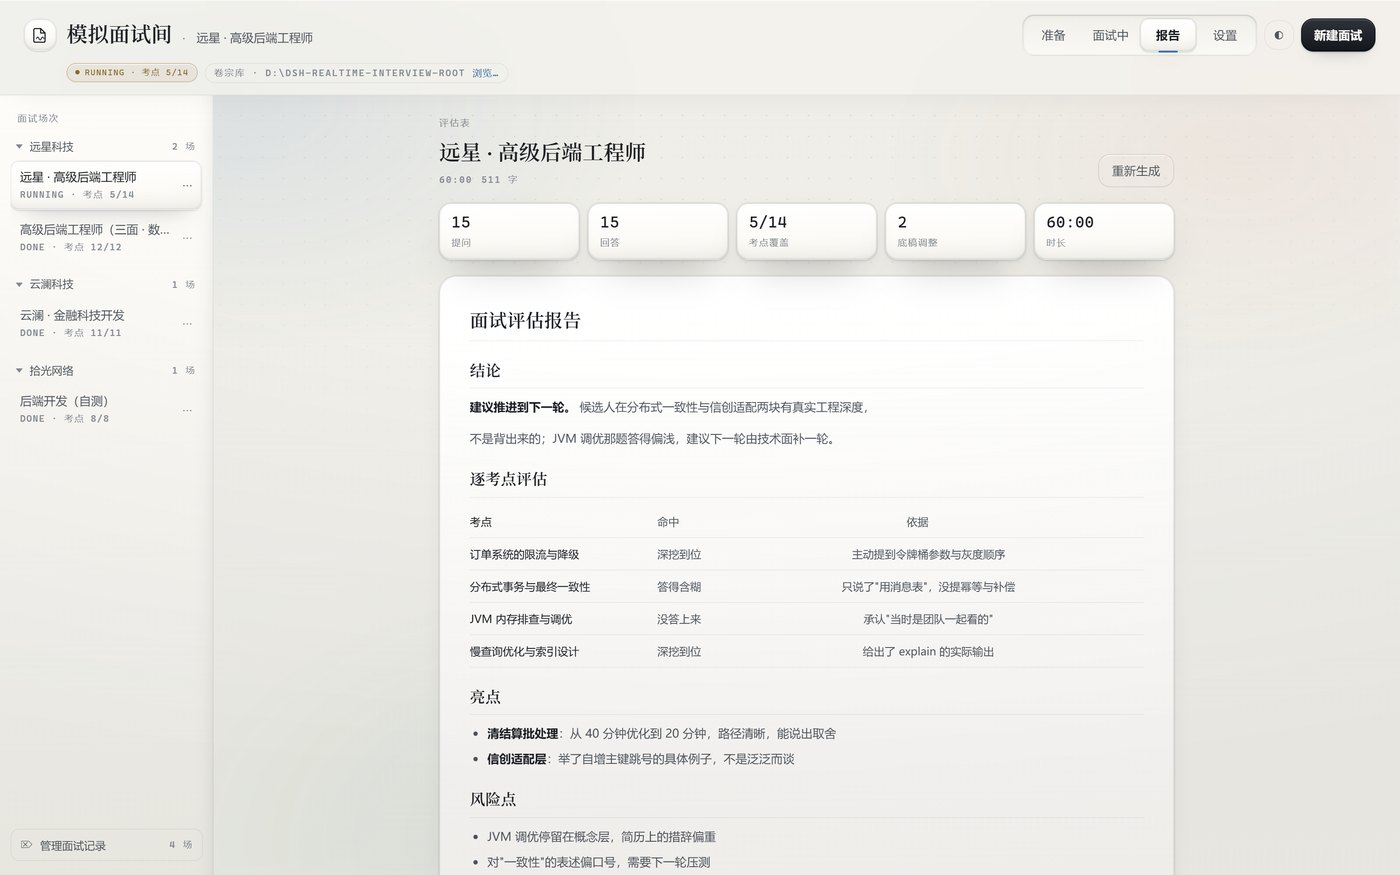
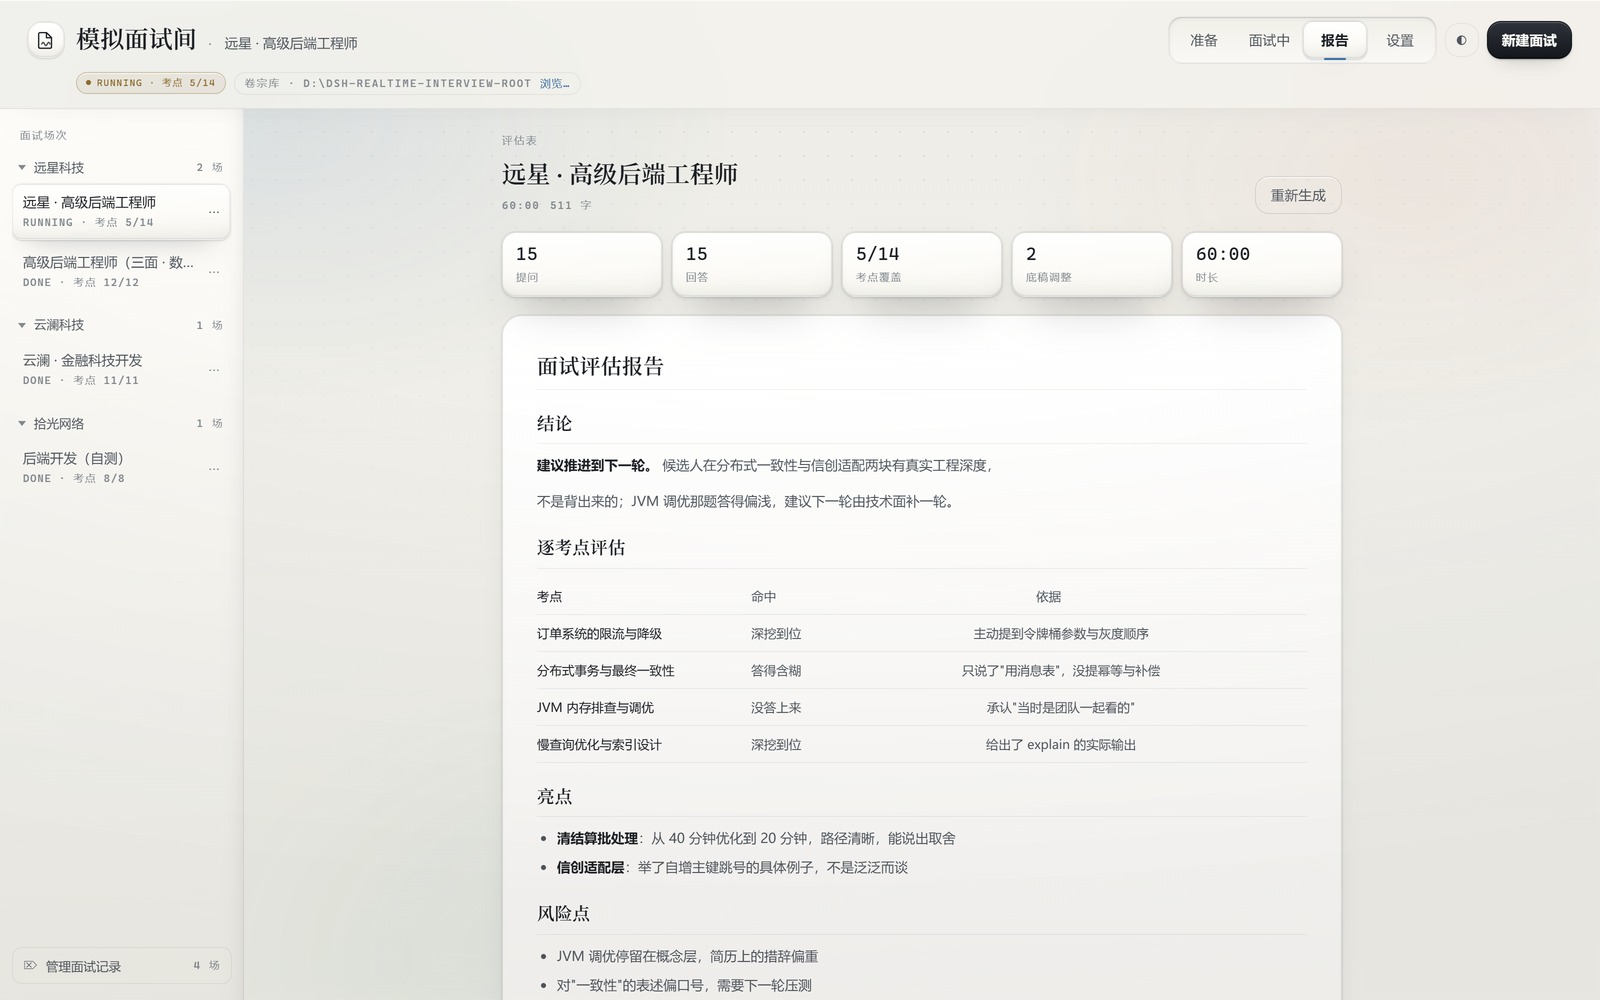
feat(brand): README 门面化 + 品牌素材 + 市场投稿指南
**engines.dsh 放宽到 >=0.1.7**（原 >=0.2.2-rc.3 <0.3.0-0）。
读 DSH 插件管理器自己的文档才看清这件事的份量：
「An unmet DSH requirement **rejects the operation before pnpm runs**」，
而且「profile startup **denies** it」——这不是提示，是**装不上**。
下界定成开发机版本，等于把老宿主用户挡在门外。
放宽的理由不是「宽松总没错」，而是这个插件对宿主的新能力一律降级：
ctx.credentials 没有就把 key 退回环境变量，ctx.speechToText 没有就走浏览器识别，
ctx.directoryPicker 没有就绕开（ctx?.get?.('directoryPicker')）。
既然没有硬依赖，就不该设硬门。上界也不加——加上就意味着 DSH 0.3 一发布，
插件集体装不上，作者自己的 dsh-ide-workbench 也没加上界。
README 里把「实测于 0.2.2-rc.3」写成事实陈述，而不是门。

**README 门面**：图标（居中）+ 标题 + 一句话主张 + 七枚徽标
（npm 版本 / 月下载 / MIT / Node ≥20 / DeepSeek Harness / GitHub stars /
Awesome DSH Plugin），再接主视觉截图。徽标全是 shields.io 与官方徽章，
GitHub 与 npmjs.com 都能渲染。

**品牌素材**（assets/brand/）：对外版正方图标 mark.svg，
以及由 dev/make-brand-assets.mjs 烘出的 icon-180.png（市场卡片用）
与 icon-512.png。180px 那张是进 DSH 插件市场的必需件——
市场卡片只吃 GitHub 托管的**位图**，写 SVG 会回退成作者头像。

**docs/BRAND.md**：宣传海报的提示词（给别的 AI 画）+ 素材清单 + GitHub Topic 建议。
**docs/MARKET.md**：进市场的完整路径——插件市场读的是 awesome-dsh-plugin
那份清单，所以投稿 = 给它提一个 PR，加一个 yml 文件；
连 category 该选哪个（tools）都有社区先例佐证。

**配图**：三张换成 1600 宽的 JPEG（q92），整包只多 300 KB。
另：媒体目录里的图与 dev/shots/ 是同一批真截图，重出图时从那儿取原件。

diff --git a/README.md b/README.md
@@ -1,10 +1,24 @@
-# 模拟面试间 · dsh-realtime-interview
+<p align="center">
+  <img src="https://raw.githubusercontent.com/LiangshouX/dsh-realtime-interview/main/assets/brand/icon-512.png" width="120" alt="模拟面试间 logo：取景框里一道正在发声的琥珀色声波">
+</p>
 
-**把一份简历和一份岗位 JD，变成一场有准备的模拟面试。**
+<h1 align="center">模拟面试间</h1>
 
-面向正在准备面试的求职者，也面向需要现场控制台的面试官。DeepSeek Harness 插件：MIT 协议，中文界面，简历、JD、转录、录像全部留在本机。
+<p align="center"><strong>把一份简历和一份岗位 JD，变成一场有准备的模拟面试。</strong></p>
 
-![面试间：舞台上是虚拟面试官，右下是提问字幕，右侧是速记与现场控制台](https://raw.githubusercontent.com/LiangshouX/dsh-realtime-interview/main/docs/media/interview-room.jpg)
+<p align="center">DeepSeek Harness 插件 · 中文界面 · 简历 / JD / 转录 / 录像全部留在本机</p>
+
+<p align="center">
+  <a href="https://www.npmjs.com/package/dsh-realtime-interview"><img src="https://img.shields.io/npm/v/dsh-realtime-interview.svg" alt="npm 版本"></a>
+  <a href="https://www.npmjs.com/package/dsh-realtime-interview"><img src="https://img.shields.io/npm/dm/dsh-realtime-interview.svg" alt="npm 月下载量"></a>
+  <a href="https://github.com/LiangshouX/dsh-realtime-interview/blob/main/LICENSE"><img src="https://img.shields.io/npm/l/dsh-realtime-interview.svg" alt="MIT 许可证"></a>
+  <a href="https://nodejs.org"><img src="https://img.shields.io/badge/node-%3E%3D20-5FA04E.svg" alt="Node.js ≥ 20"></a>
+  <a href="https://github.com/deepseek-ai/deepseek-harness"><img src="https://img.shields.io/badge/DeepSeek%20Harness-%3E%3D0.1.7-4D6BFE.svg" alt="DeepSeek Harness ≥ 0.1.7"></a>
+  <a href="https://github.com/LiangshouX/dsh-realtime-interview"><img src="https://img.shields.io/github/stars/LiangshouX/dsh-realtime-interview?style=flat" alt="GitHub stars"></a>
+  <a href="https://awesome-dsh-plugin.com"><img src="https://awesome-dsh-plugin.com/badge.svg" alt="Awesome DSH Plugin"></a>
+</p>
+
+![面试间：舞台上是虚拟面试官，下缘是提问字幕，右侧是速记与现场控制台](https://raw.githubusercontent.com/LiangshouX/dsh-realtime-interview/main/docs/media/interview-room.jpg)
 
 ```
 简历 + JD
@@ -78,7 +92,7 @@ node scripts/pack.mjs      # → release/dsh-realtime-interview-<version>.tgz
 ## 环境要求
 
 - **Node ≥ 20**（`package.json` 的 `engines`）。
-- **DSH ≥ 0.2.2-rc.3**（`package.json` 的 `engines.dsh`）：需要支持 bundle 与客户端模块注入的版本。装不上时宿主会给出明确提示，也可用插件管理器的版本豁免放行。升级插件后 Host 半边要重启 DSH 才生效，只改浏览器半边刷新页面就够。
+- **DeepSeek Harness ≥ 0.1.7**（`package.json` 的 `engines.dsh`）：需要支持 bundle 与客户端模块注入的版本。本插件在 **0.2.2-rc.3** 上开发与实测；声明的下界取 0.1.7，是因为插件对宿主的新能力一律**降级而不是报错**（没有 `ctx.credentials` 就把 key 退回环境变量，没有 `ctx.speechToText` 就走浏览器识别），用不着把门关死。若你的 DSH 更老而插件仍要装，宿主会给出 `allow-version` 的具体命令，或用插件管理器的版本豁免放行。升级插件后 Host 半边要重启 DSH 才生效，只改浏览器半边刷新页面就够。
 - **摄像头（可选）**：DSH 桌面端的 Electron 权限处理只放行纯音频，浏览器拿不到摄像头。所以桌面端改走 Host 侧 ffmpeg 采集；机器上没有 ffmpeg 时，插件如实说「这台机器没有摄像头采集程序」，面试本身不受影响——麦克风、键盘、报告照常。
   - 装 ffmpeg：`winget install Gyan.FFmpeg`（或 `choco install ffmpeg` / `brew install ffmpeg`），或把 `ffmpeg.exe` 的绝对路径填进设置页。
   - DirectShow 采集失败的机器会自动回落到 Chromium 的 Media Foundation 通道；面板会显示现在走的是哪一条。
@@ -99,6 +113,8 @@ node scripts/pack.mjs      # → release/dsh-realtime-interview-<version>.tgz
 | [docs/VOICE.md](https://github.com/LiangshouX/dsh-realtime-interview/blob/main/docs/VOICE.md) | 开发者 | 语音链路、预设表、凭据规则、失败语义 |
 | [docs/VOICE-ASR.md](https://github.com/LiangshouX/dsh-realtime-interview/blob/main/docs/VOICE-ASR.md) | 接入者 | ASR 模型 ID、端点、协议、坑 |
 | [docs/VOICE-TTS.md](https://github.com/LiangshouX/dsh-realtime-interview/blob/main/docs/VOICE-TTS.md) | 接入者 | TTS 模型 ID、音色表、端点、协议、坑 |
+| [docs/BRAND.md](https://github.com/LiangshouX/dsh-realtime-interview/blob/main/docs/BRAND.md) | 维护者 | 品牌素材：图标、徽标、宣传海报的提示词 |
+| [docs/MARKET.md](https://github.com/LiangshouX/dsh-realtime-interview/blob/main/docs/MARKET.md) | 维护者 | 发到 DSH 插件市场：给 awesome-dsh-plugin 提一个 PR |
 | [AGENTS.md](https://github.com/LiangshouX/dsh-realtime-interview/blob/main/AGENTS.md) | 开发者 / Agent | 开发纪律 |
 | [ROADMAP.md](https://github.com/LiangshouX/dsh-realtime-interview/blob/main/ROADMAP.md) | 人 | 未实现与待优化项 |
 | [CHANGELOG.md](https://github.com/LiangshouX/dsh-realtime-interview/blob/main/CHANGELOG.md) | 人 | 版本记录 |

diff --git a/docs/BRAND.md b/docs/BRAND.md
@@ -1,0 +1,111 @@
+# 品牌素材
+
+给这个插件的对外形象。已有的是图标（`assets/brand/`），**缺一张宣传海报**——
+下面那段提示词就是给画图用的。
+
+## 现状
+
+| 素材 | 位置 | 状态 |
+|---|---|---|
+| 插件图标（DSH 侧栏用，扁 tile） | `icon.svg` | ✅ 定稿 |
+| 对外版图标（正方 squircle） | `assets/brand/mark.svg` | ✅ 定稿 |
+| 位图（市场卡片 180px / 渠道头像 512px） | `assets/brand/icon-180.png`、`icon-512.png` | ✅ 由 `node dev/make-brand-assets.mjs` 从 SVG 烘出 |
+| README 截图 ×3 | `docs/media/*.jpg` | ✅ 真截图 |
+| **宣传海报** | —— | ❌ **待画**，提示词见下 |
+
+改了 `assets/brand/mark.svg` 就重跑一次烘图：
+
+```bash
+node dev/make-brand-assets.mjs
+```
+
+图标为什么是「取景框 + 琥珀声波」：蓝框是**正在录**，琥珀是**正在说话**。
+一眼能读出「镜头前有人在答」。
+
+---
+
+## 宣传海报 · 提示词
+
+交给能画图的 AI 即可。**要一张，不要一堆**——一张横幅海报，海报里不要出现
+任何真实人脸（虚拟面试官的实心插画也不要用，宁可用剪影/几何）。
+
+```text
+一张 16:9 的深色科技风宣传横幅海报（2400×1350 px），主题是「AI 模拟面试」。
+
+画面构成（从左到右）：
+左侧三分之一：一块深色圆角矩形面板，像一个视频会议的舞台缩略图。
+  面板里是一个**抽象的人物剪影**（只看得出头肩轮廓，看不出五官），
+  背光，暖色轮廓光勾出侧脸边缘；背景是暗室，有极淡的网格与光晕。
+  剪影旁边压着一层半透明的字幕条，暗示「正在提问」。
+右上角：一个小的圆角画中画小窗，里面是一张**抽象的、有光影的 AI 面试官头像**
+  （几何构成的女性面孔，不要写真实人像，不要出现现成 IP），带一圈柔和的琥珀色声波。
+右下角：三张叠在一起的「评估报告」卡片，卡片上是抽象的**柱状图与雷达图**，
+  琥珀与蓝灰两种强调色，纸白底。
+整体留白充足，元素少而准，不要塞满。
+
+配色（严格只用这几支）：
+  墨底 #0D1117（背景）
+  纸白骨 #EBEDF0（正文与卡片）
+  琥珀 #CDA96F（正在发声 / 强调）
+  蓝灰 #7FA6D9（取景 / 结构）
+  青玉 #6FBF9A（就绪 / 通过）
+  朱红 #E0563F（只用于极小面积的 REC 点）
+  描边 #39404c
+
+质感：哑光纸面 + 极低对比的玻璃感卡片，**不要**霓虹、赛博朋克、镜头光斑、
+粒子特效、渐变彩虹。整体像「一间安静的暗房里的一场面试」。
+
+不要出现：任何真实人脸、任何现成品牌 logo、任何水印、任何中文字符、
+任何英文单词（画面是纯图形，文字后期自己排）。
+```
+
+出图之后：
+
+- 存成 `docs/media/poster.jpg`（宽度压到 1600，JPEG q90，约 150 KiB）；
+- 放在 README 徽标区**下面**、第一张截图**上面**：
+
+  ```markdown
+  ![宣传海报：暗房里的模拟面试，虚拟面试官、提问字幕与评估报告](https://raw.githubusercontent.com/LiangshouX/dsh-realtime-interview/main/docs/media/poster.jpg)
+  ```
+
+- 顺手也导一份 1200×630 的版本给社交媒体（OG 图），放 `docs/media/og.jpg`。
+
+---
+
+## README 徽标
+
+README 顶部那排徽标现在是这样（`shields.io` + 官方徽章，GitHub 与 npm 都能渲染）：
+
+| 徽标 | 指向 |
+|---|---|
+| npm 版本 / 月下载量 | npm 包页 |
+| MIT 许可证 | 仓库里的 `LICENSE` |
+| Node ≥ 20 | nodejs.org |
+| DeepSeek Harness ≥ 0.1.7 | 官方仓库 |
+| GitHub stars | 仓库 |
+| Awesome DSH Plugin | awesome-dsh-plugin.com |
+
+`Awesome DSH Plugin` 那枚要等插件**被收录进 awesome-dsh-plugin** 之后才有意义
+（见 `docs/MARKET.md`）。在那之前它指向的页面里还没有这个条目——可以先留着，
+也可以等收录后再加。
+
+---
+
+## GitHub Topic
+
+仓库主题（Settings → Topics，或 API）在 GitHub 侧生效，用来找插件的人靠它搜索。
+建议这一组（与 `dsh-ide-workbench` 的命名习惯一致）：
+
+```
+deepseek-harness
+dsh
+dsh-plugin
+interview
+mock-interview
+job-interview
+voice
+asr
+tts
+camera
+chinese
+```

diff --git a/docs/MARKET.md b/docs/MARKET.md
@@ -1,0 +1,66 @@
+# 发到 DSH 插件市场
+
+「DSH 插件市场」不是一个单独的站点——它读的是
+[**awesome-dsh-plugin**](https://github.com/awesome-dsh-plugin/awesome-dsh-plugin)
+这份**社区精选清单**，而那份清单又被发布成 npm 上的
+[`dsh-plugin-catalog`](https://www.npmjs.com/package/dsh-plugin-catalog)
+（市场发现页 `Plugins → Discover → Index sources` 里加
+`https://cdn.jsdelivr.net/npm/dsh-plugin-catalog/index.json` 就能搜到）。
+
+所以进市场 = **给那份清单提一个 PR**，一个文件。
+
+## 前提
+
+- ✅ 插件已发布到 npm（`dsh plugin add dsh-realtime-interview` 能装上）
+- ✅ 仓库公开，README 有截图（市场卡片没配图时，会自动从 README 里抽第一张）
+- ✅ 仓库设好 GitHub Topic（见 `BRAND.md`）
+
+## 投稿：一个文件
+
+在 `awesome-dsh-plugin/awesome-dsh-plugin` 里加
+`data/plugins/LiangshouX__dsh-realtime-interview.yml`（文件名 = `<owner>__<repo>`）：
+
+```yaml
+url: https://github.com/LiangshouX/dsh-realtime-interview
+name: LiangshouX/dsh-realtime-interview
+category: tools
+description:
+  en: Mock-interview plugin for DeepSeek Harness: turns a resume and a job description into a prepared interview with live voice, camera and a post-interview report.
+  zh: 简历 + JD 变成一场有准备的模拟面试：助手先出分级考点清单，再逐轮提问，实时语音与摄像头，结束后写一份基于转录原话的事后报告。数据全部留在本机。
+icon: https://raw.githubusercontent.com/LiangshouX/dsh-realtime-interview/main/assets/brand/icon-180.png
+```
+
+要点（来自该仓库的 `contributing.md`）：
+
+- **只有 `description.en` 是必填的**；中文写不了就省掉，维护者会补。
+- 描述里带 `: `（冒号加空格）必须加引号，否则 YAML 解析失败。
+- `category` 取值见下表。**面试类插件在社区里的先例是 `tools`**
+  （`dsh-interview`、`dsh-plugin-resume-warehouse` 都在这一类）。
+- `icon` 是**可选**的位图（市场卡片图标）；不写就回退成作者头像。
+  必须是 **GitHub 托管的位图**——写 SVG 不行。我们已经有
+  `assets/brand/icon-180.png`（180px，由 `node dev/make-brand-assets.mjs` 烘出）。
+- 两个 README 是**脚本生成**的，不要手工编辑；只加那一个 yml 文件。
+
+## 分类可选值
+
+`agi` `ui` `usage` `theme` `model` `identity` `session` `memory` `tools`
+`wsl` `browser` `vision` `voice` `docs` `skill` `workflow` `git` `notify`
+`dev` `security` `remote` `market` `fun`
+
+## 收录之后
+
+- 清单的两个 README 在 `main` 上自动重新生成；
+- 市场条目带着 `engines.dsh`（我们声明 `>=0.1.7`），卡片上会显示这个要求；
+  用户开了「只看与当前宿主兼容的」过滤时才可能看不到本条目——**不声明反而会被
+  猜成不兼容**，所以这个字段要留着；
+- README 顶部可以加上这枚徽章：
+
+  ```markdown
+  [![Awesome DSH Plugin](https://awesome-dsh-plugin.com/badge.svg)](https://awesome-dsh-plugin.com)
+  ```
+
+## 顺带一提
+
+- 仓库的 **GitHub Topic** 也在 GitHub 侧设置（Settings → Topics），
+  不在这个清单里管，但**找插件的人靠它搜**。
+- 市场的更新检查走 npm 版本或固定 commit 对 HEAD，所以发版后市场里能一键升级。

diff --git a/docs/media/README.md b/docs/media/README.md
@@ -4,7 +4,7 @@ README 与文档里用到的图。
 
 | 文件 | 是什么 |
 |---|---|
-| `interview-room.jpg` | 面试中：舞台上是虚拟面试官，右下是提问字幕，右侧是速记与现场控制台 |
+| `interview-room.jpg` | 面试中：舞台上是虚拟面试官，下缘是提问字幕，右侧是速记与现场控制台 |
 | `prepare.jpg` | 准备页：简历 / JD 归档与面试官底稿 |
 | `report.jpg` | 报告页：逐考点评估的阅读版式 |
 
@@ -13,13 +13,20 @@ README 与文档里用到的图。
 真截图，不是画出来的。用 `dev/shoot.mjs` 在真 Chromium 里渲染面板：
 
 ```bash
-node dev/shoot.mjs live-dark-granted prepare-dark report
+node dev/shoot.mjs live prepare report
 ```
+
+原始文件是 3200×2000 的 PNG，落在 `dev/shots/`（gitignore）。
+这里的三张是**缩到 1600 宽的 JPEG**（q92，每张 150 KiB 上下）——
+README 里显示宽度约 900 px，1600 宽够两倍屏用，而整包因此只多几百 KB。
 
 画面里那个「人」是**合成**的：Chromium 默认的假摄像头是个绿球，
 拿来做门面不行。`scripts/browser.mjs` 支持 `DSH_IV_FAKE_VIDEO=<file.y4m|file.mjpeg>`，
 把一段视频当作摄像头画面喂进去。这三张图用的就是一段**逆光人影**的合成画面
 （暗房、剪影、轮廓光）——刻意不画脸，也不用任何真人肖像。
 
-改完界面要重出图：重新截 → 缩到 1600 宽 → 存成 JPEG（q86）。
-每张 100 KiB 上下，npm 包体不受影响。
+## 换图
+
+1. 重新截：`node dev/shoot.mjs <preset>`（或直接用自己拍的图）；
+2. 缩到 1600 宽、存成 JPEG q92，放进这个目录；
+3. 改 README 里对应的图片路径。

diff --git a/CHANGELOG.md b/CHANGELOG.md
@@ -26,8 +26,9 @@ dsh plugin --profile web add dsh-realtime-interview
 ### 环境要求
 
 - Node ≥ 20
-- DeepSeek Harness ≥ 0.2.2-rc.3（`engines.dsh`；装不上时宿主会给出明确提示，
-  也可用插件管理器的版本豁免放行）
+- DeepSeek Harness ≥ 0.1.7（`engines.dsh`）。本插件在 DSH 0.2.2-rc.3 上开发与实测；
+  下界取 0.1.7 是因为插件对宿主的新能力一律降级而不是报错。装不上时宿主会给出
+  `allow-version` 的具体命令，或用插件管理器的版本豁免放行。
 - 摄像头是可选的：DSH 桌面端的 Electron 只放行纯音频请求，桌面端改走 Host 侧
   ffmpeg / Media Foundation 采集；机器上没有 ffmpeg 时插件如实说明，面试照常。
 
